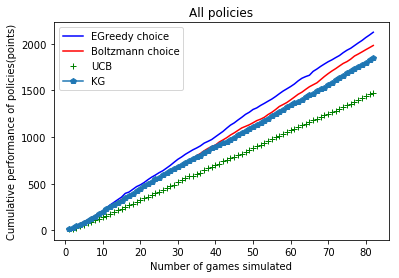
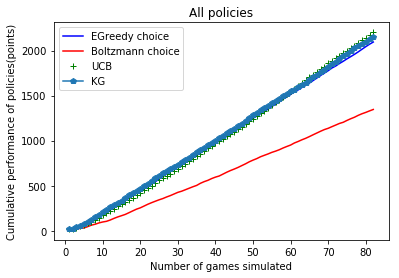
final version

diff --git a/basketballSimulator.py b/basketballSimulator.py
@@ -185,7 +185,7 @@ class Simulator():
             # observe the outcome of the decision
             # w_k=mu_k+Z*SigmaW_k where SigmaW is standard deviation of the
             # error for each observation
-            for j in range(1):
+            for j in range(4):
                 w_k = results[j]
                 cov_m = np.asarray(priorCov[j])
                 x = choices[j]
@@ -284,7 +284,7 @@ if __name__ == '__main__':
     test4.monteCarlo()
     test4.fillCov()
     x = np.arange(1, 83, 1)
-    results4 = [test4.simulate(0.4,0.5,0.5) for i in range(20)]
+    results4 = [test4.simulate(0.8,0.5,0.5) for i in range(20)]
     cumul4 = np.average([[cumulative(results4[i][j]) for j in range(4)]for i in range(len(results4))],axis = 1)
     plt.figure(4)
     plt.title("All policies")
